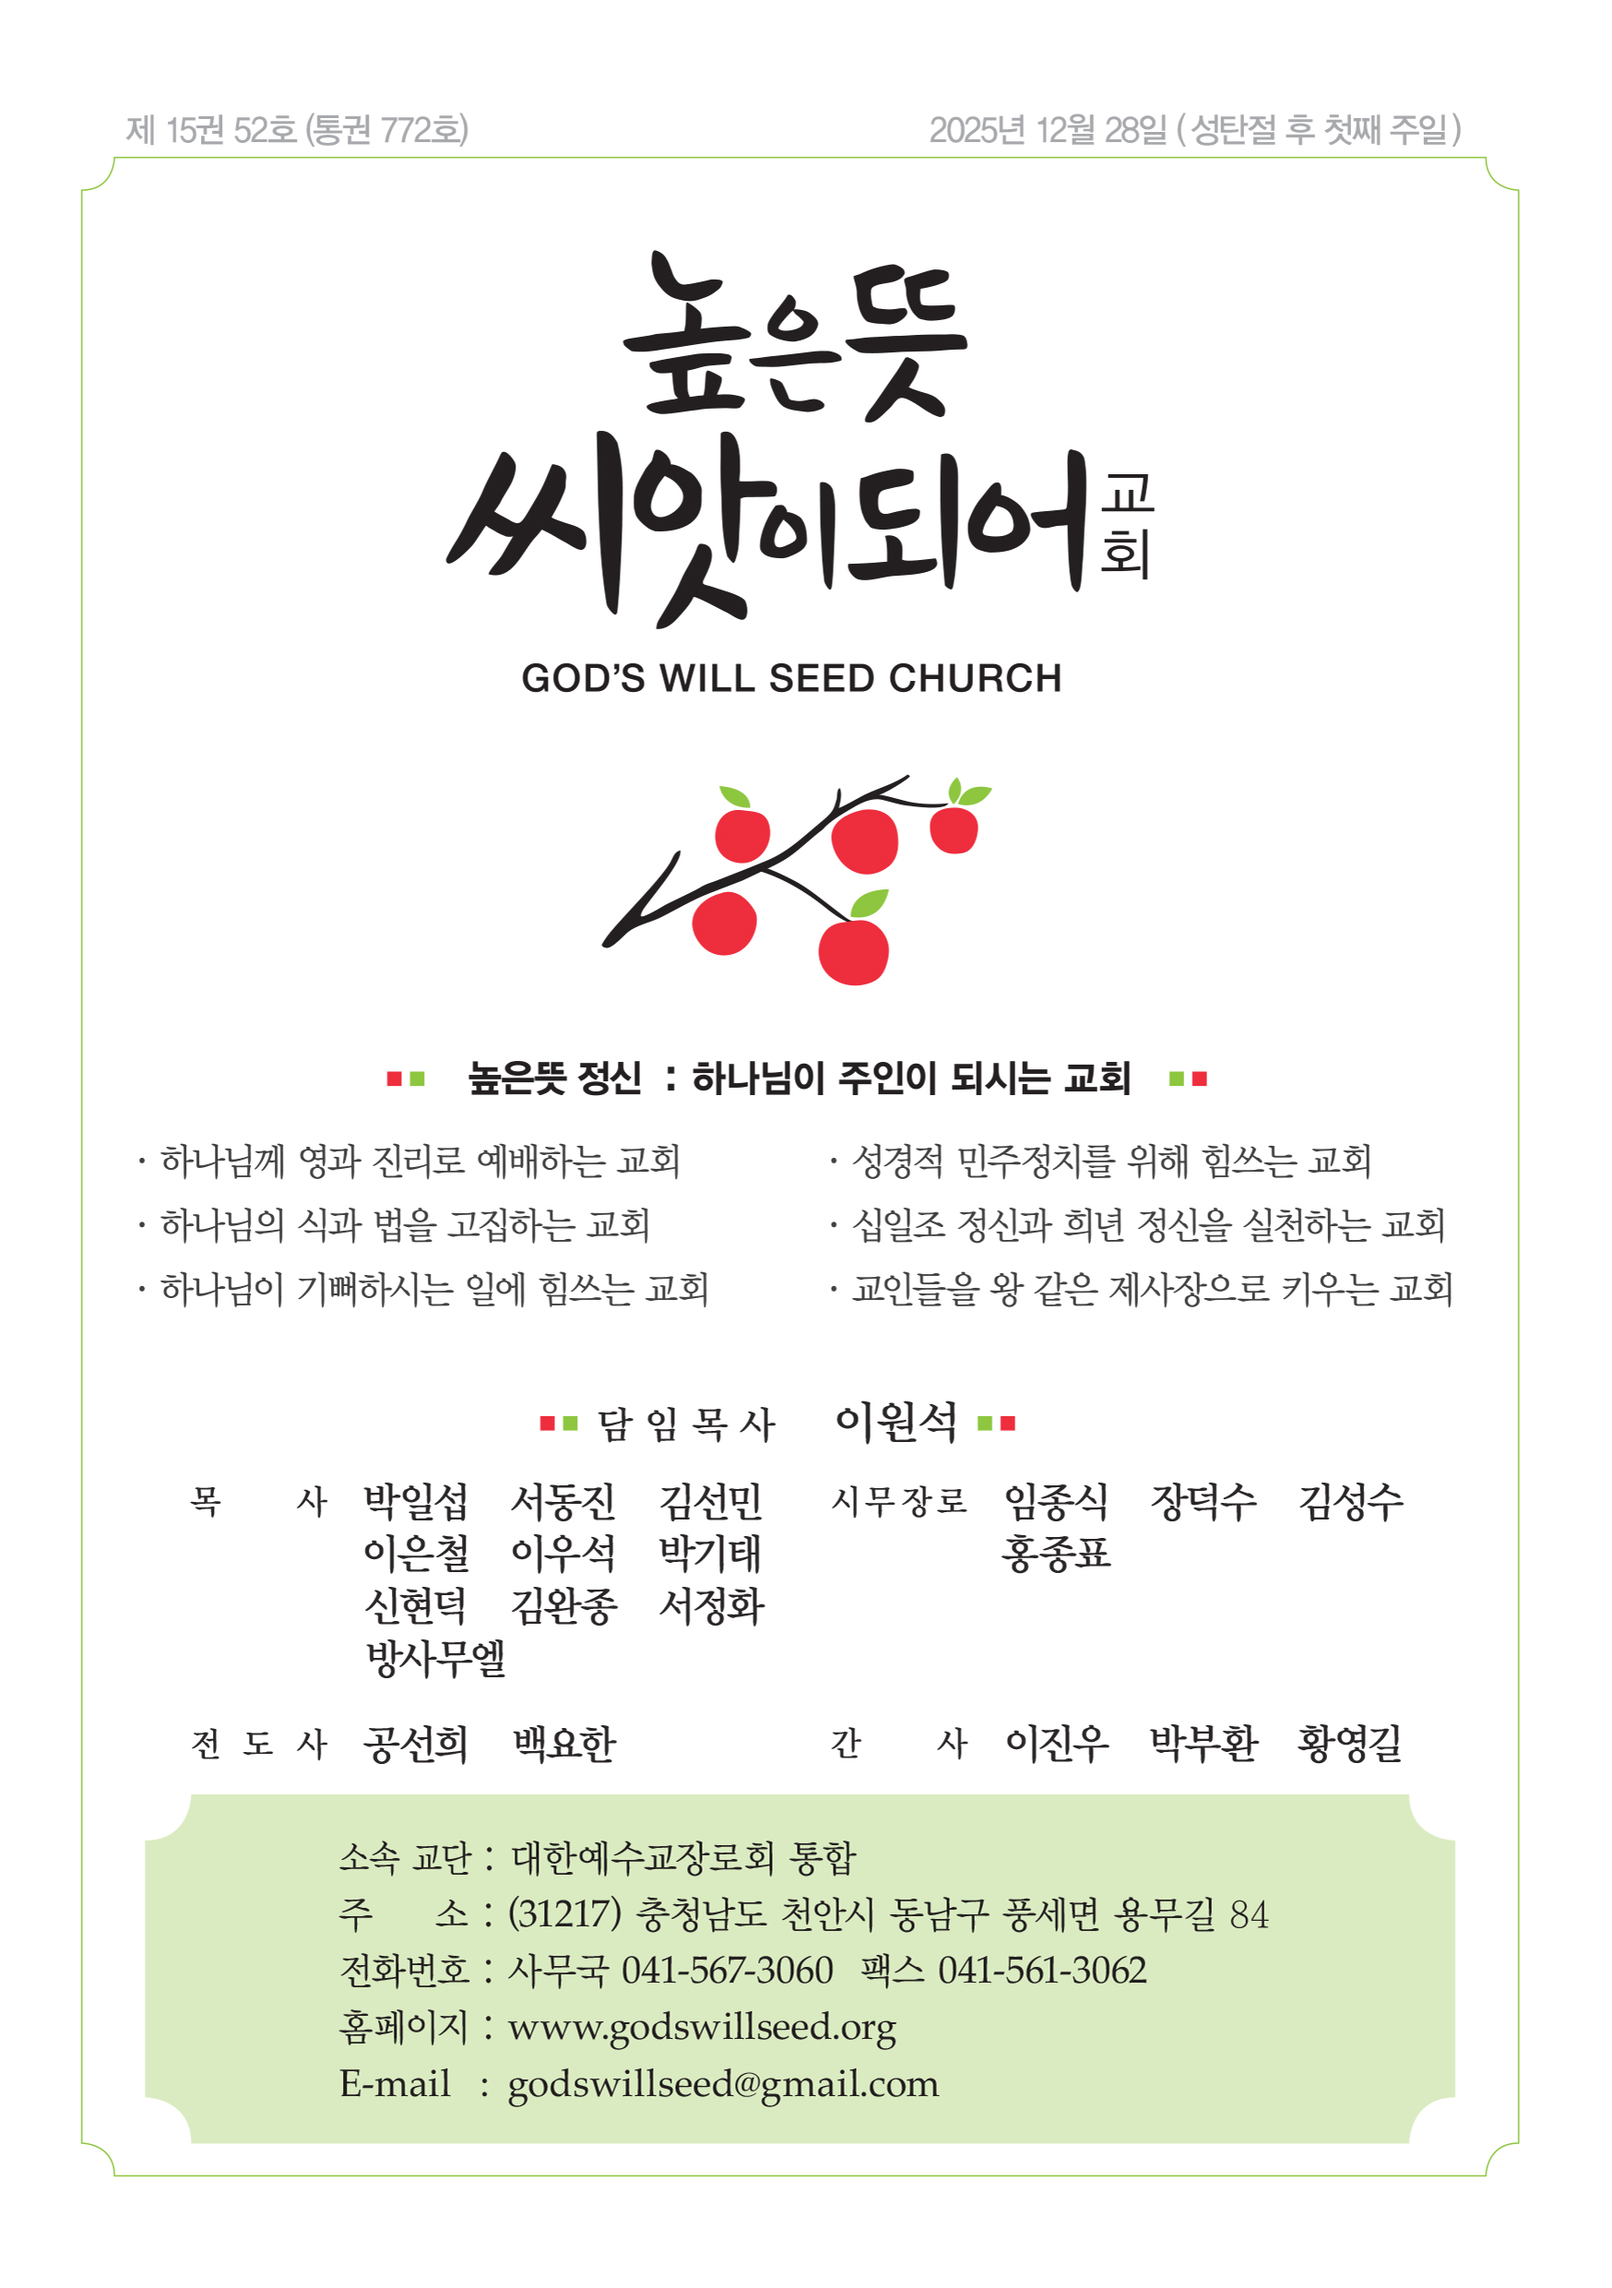
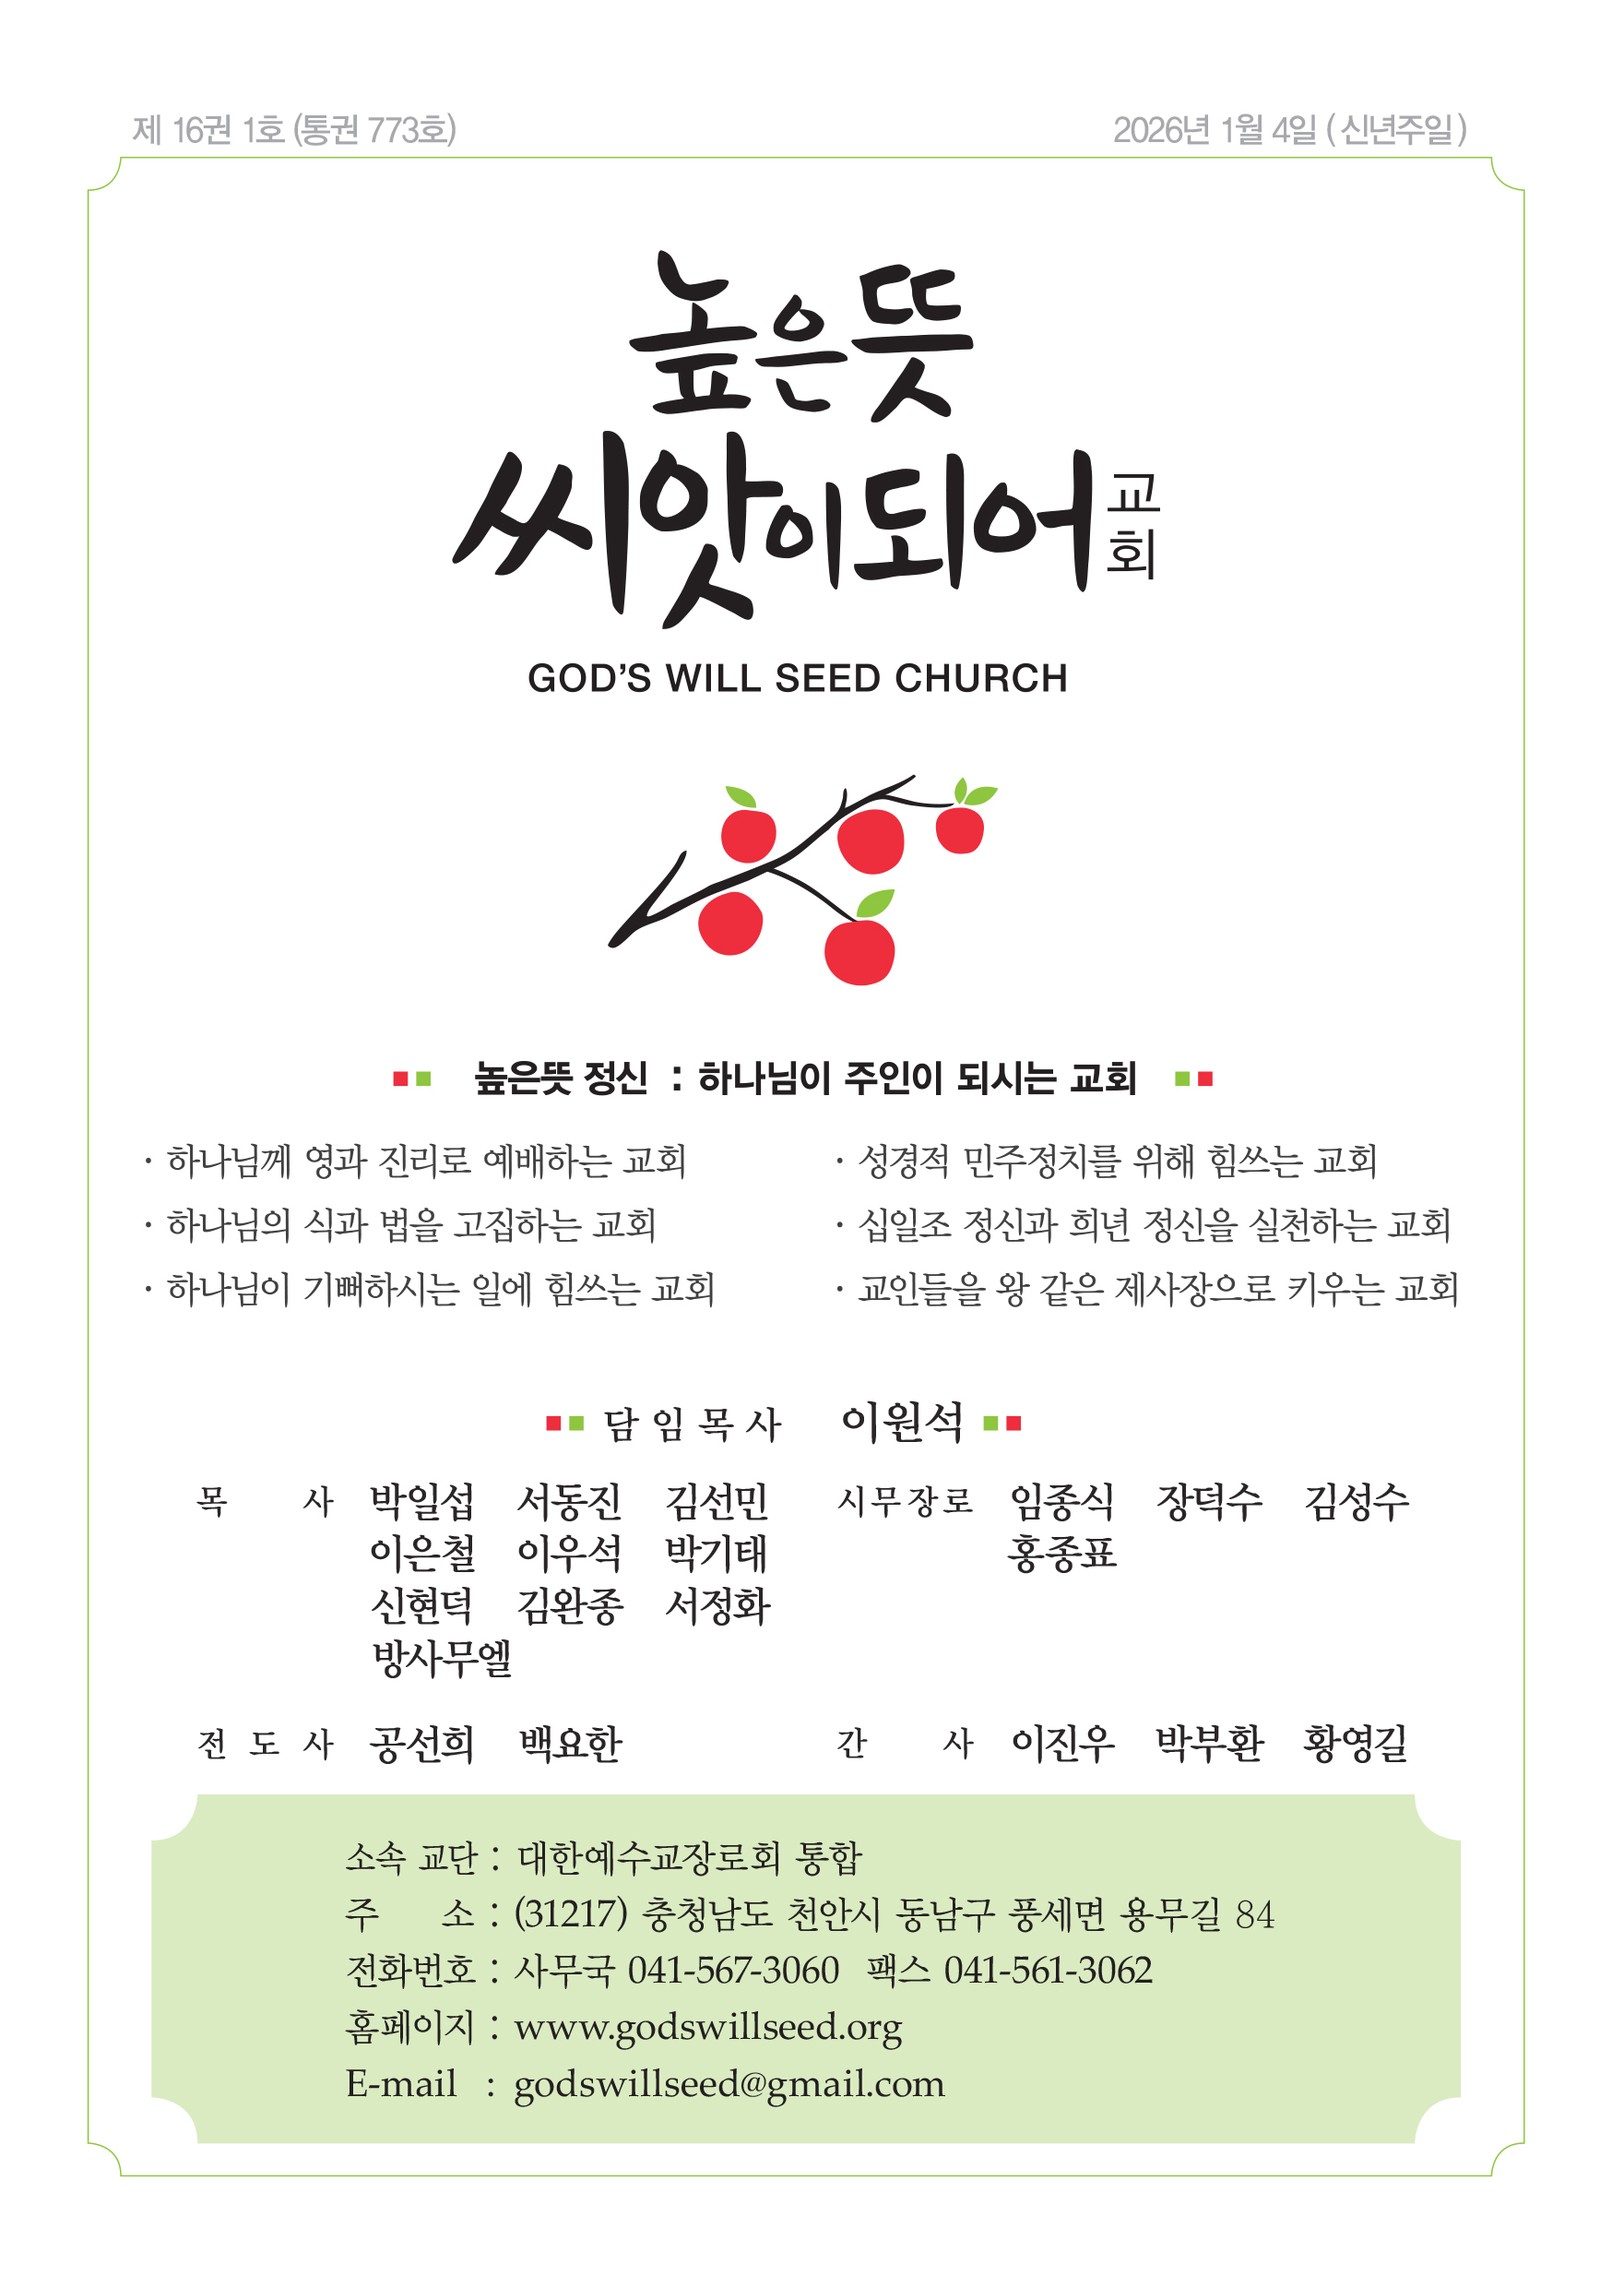
주보 자동 업데이트: wr_id 763 -> 764 및 시놀로지 NAS 가이드 업데이트
- 최신 주보(wr_id: 764) 업데이트
- 2026년 첫 주 주보 썸네일 이미지 다운로드 완료
- 시놀로지 NAS 설정 가이드 업데이트 (썸네일 포함, 실제 저장소 정보 반영)
- 스토리지 문제 해결 후 복구 방법 추가

diff --git a/index.html b/index.html
@@ -5,7 +5,7 @@
     <meta name="viewport" content="width=device-width, initial-scale=1.0">
     <title>높은뜻씨앗이되어교회 주보</title>
     <link rel="preload" href="assets/static_thumbnail.jpg" as="image">
-    <!-- <meta http-equiv="refresh" content="1.5; url=https://www.godswillseed.or.kr/bbs/board.php?bo_table=weekly&wr_id=763"> -->
+    <!-- <meta http-equiv="refresh" content="1.5; url=https://www.godswillseed.or.kr/bbs/board.php?bo_table=weekly&wr_id=764"> -->
     <style>
         * {
             box-sizing: border-box; /* 레이아웃 계산 방식 통일 */
@@ -106,7 +106,7 @@
         <div class="loading"></div>
         
         <div style="margin-top: 30px;">
-            <a href="https://www.godswillseed.or.kr/bbs/board.php?bo_table=weekly&wr_id=763" 
+            <a href="https://www.godswillseed.or.kr/bbs/board.php?bo_table=weekly&wr_id=764" 
                class="manual-link">
                 이번주 주보로 이동
             </a>

diff --git a/synology_setup_guide.md b/synology_setup_guide.md
@@ -1,0 +1,128 @@
+# 시놀로지 서버 자동 업데이트 설정 가이드
+
+## 🚀 시놀로지 서버 활용 방법
+
+### 1단계: 시놀로지에 Python 환경 설정
+```bash
+# SSH로 시놀로지 접속
+ssh admin@your-synology-ip
+
+# Python 설치 (이미 설치되어 있을 수 있음)
+sudo synopkg install Python3
+
+# 필요한 패키지 설치
+pip3 install requests beautifulsoup4
+```
+
+### 2단계: 프로젝트 파일 업로드
+```bash
+# 시놀로지에 프로젝트 폴더 생성
+mkdir -p /volume1/web/gwseed-weekly
+cd /volume1/web/gwseed-weekly
+
+# GitHub에서 파일 다운로드
+wget https://raw.githubusercontent.com/your-username/your-repo-name/main/auto_update_script.py
+wget https://raw.githubusercontent.com/your-username/your-repo-name/main/index.html
+wget https://raw.githubusercontent.com/your-username/your-repo-name/main/latest_bulletin.json
+```
+
+### 3단계: Git 설정
+```bash
+# Git 설치
+sudo synopkg install Git
+
+# 저장소 클론
+git clone https://github.com/purplestory/gwseed-bulletin-nfc.git
+cd gwseed-bulletin-nfc
+
+# Git 인증 설정
+git config --global user.name "Synology Bot"
+git config --global user.email "synology@example.com"
+```
+
+### 4단계: 자동 실행 스크립트 생성
+```bash
+# update_script.sh 생성
+cat > update_script.sh << 'EOF'
+#!/bin/bash
+cd /volume1/web/gwseed-bulletin-nfc
+
+# Python 스크립트 실행
+python3 auto_update_script.py
+
+# 변경사항이 있으면 Git 커밋 및 푸시
+if [[ -n "$(git status --porcelain)" ]]; then
+    git add index.html latest_bulletin.json
+    # 썸네일 이미지가 있으면 추가
+    if [ -f "assets/thumbnail_2026.jpg" ]; then
+      git add assets/thumbnail_2026.jpg
+    fi
+    git commit -m "Auto update from Synology $(date +'%Y-%m-%d %H:%M:%S')"
+    git pull origin main --rebase
+    git push origin main
+    echo "Changes committed and pushed successfully"
+else
+    echo "No changes detected"
+fi
+EOF
+
+chmod +x update_script.sh
+```
+
+### 5단계: Cron 작업 설정
+```bash
+# crontab 편집
+crontab -e
+
+# 토요일 오후 3시, 6시 실행
+0 15 * * 6 /volume1/web/gwseed-bulletin-nfc/update_script.sh
+0 18 * * 6 /volume1/web/gwseed-bulletin-nfc/update_script.sh
+```
+
+## 🎯 장점
+
+1. **국내 IP 주소** - 봇 차단 우회 가능성 높음
+2. **실제 서버 환경** - GitHub Actions와 달리 안정적
+3. **JavaScript 실행 가능** - 봇 차단 스크립트 실행
+4. **24/7 실행** - 지속적인 자동 업데이트
+5. **비용 효율적** - 기존 시놀로지 서버 활용
+
+## ⚠ 주의사항
+
+1. **Git 인증** - Personal Access Token 설정 필요
+2. **네트워크 안정성** - 인터넷 연결 확인
+3. **로그 모니터링** - 실행 결과 확인
+4. **백업** - 중요한 파일 백업
+
+## 🔧 문제 해결
+
+### Git 인증 오류 시:
+```bash
+# Personal Access Token으로 인증
+git remote set-url origin https://your-token@github.com/purplestory/gwseed-bulletin-nfc.git
+```
+
+### 스토리지 문제 해결 후:
+```bash
+# 저장소 경로 확인
+cd /volume1/web/gwseed-bulletin-nfc
+
+# Git 상태 확인
+git status
+
+# 최신 코드 가져오기
+git pull origin main
+
+# 스크립트 실행 권한 확인
+chmod +x update_script.sh
+chmod +x auto_update_script.py
+
+# Cron 작업 확인
+crontab -l
+```
+
+### 실행 권한 오류 시:
+```bash
+chmod +x update_script.sh
+chmod +x auto_update_script.py
+``` 
